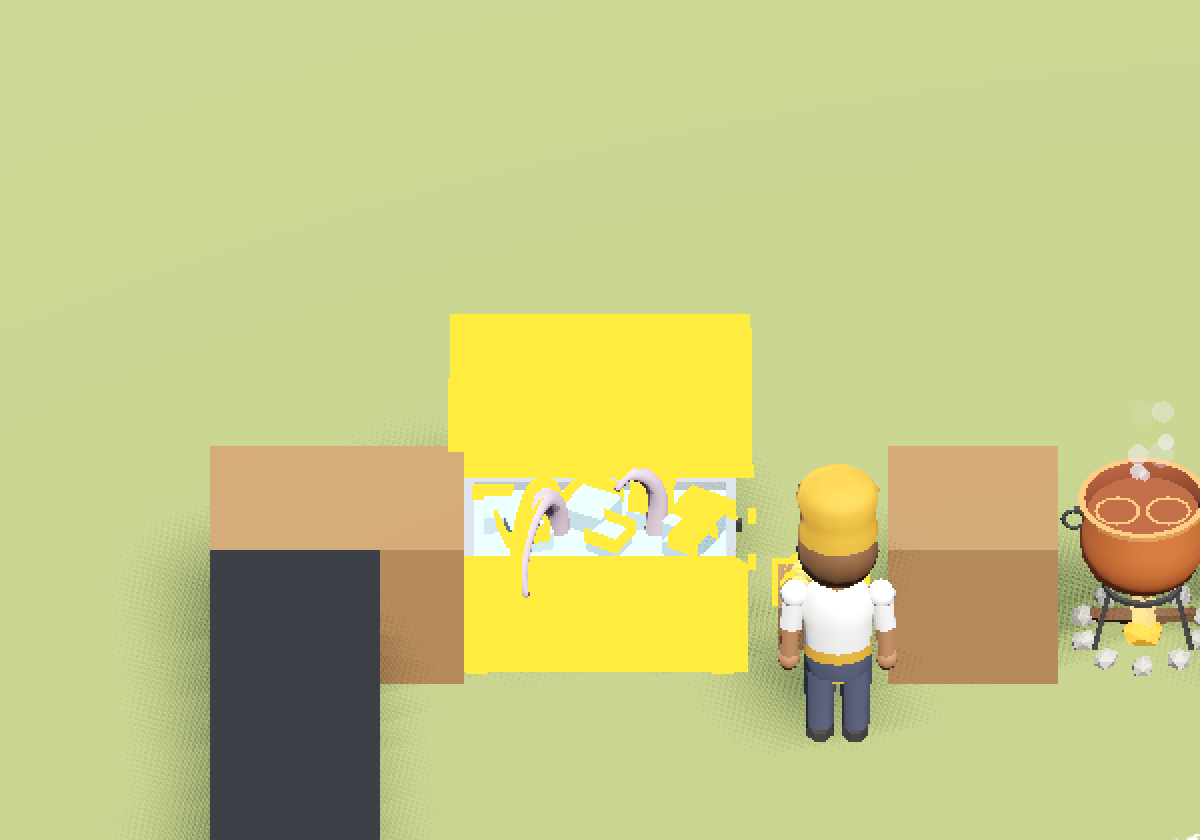
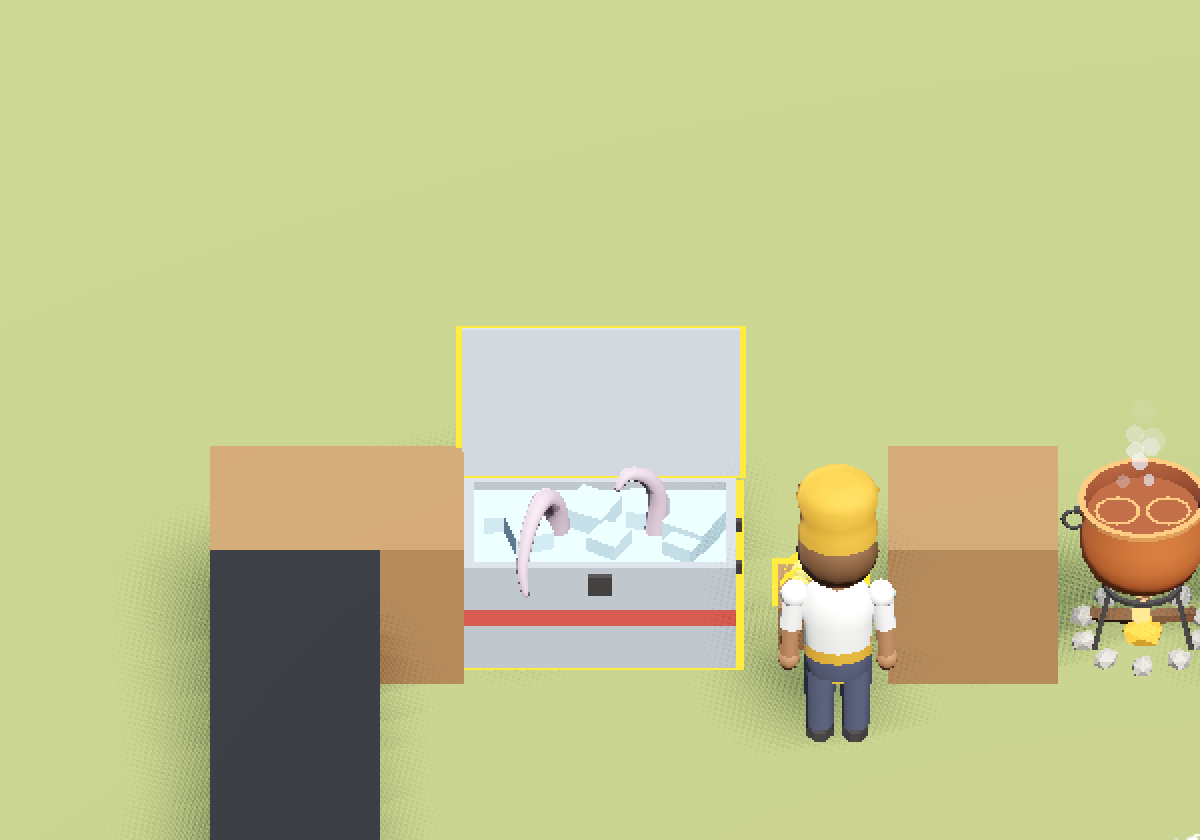
PUL-049: corregir resaltado

Changed region(s): [[0.37, 0.3714, 0.6475, 0.8048], [0.925, 0.4643, 0.9867, 0.5881], [0.9558, 0.7119, 0.9867, 0.7429]]

diff --git a/docs/backlog/PUL-049-asset-nevera.md b/docs/backlog/PUL-049-asset-nevera.md
@@ -48,3 +48,6 @@ Ajuste de la biblia (§4): tapa separada (`Lid`).
 - `octopus_storage.tscn`: solo cambia la instancia de `Model` (fridge.tscn → .glb). Colisión, `%Highlightable`, grupo `interactable` y script intactos: la huella en planta (1,61×0,91) no cambia, así que el acceso desde la planta B (navegación plana) no se ve afectado. La caja sigue siendo más alta (2,33 m) que el modelo; no se ha tocado para no alterar el contrato.
 - Capturas en `docs/evidence/PUL-049/`: `blender_render.png`, `level_camera_plain*.png`, `level_camera_highlight*.png` (con personaje al lado), scripts `build_octopus_storage.py` y `capture_storage.gd`.
 - Licencia (propia): pendiente de registrar por el coordinador en `docs/assets/licenses.md`.
+
+### Corrección del resaltado (ronda del coordinador)
+El inverted hull de `highlight_outline` rellenaba el arcón entero (cuba abierta, tapa fina, hielo). Sin tocar el shader ni `highlightable.gd`: la escena añade `OutlineHull` con dos cajas cerradas escondidas dentro del modelo (cuba y tapa) y `Highlightable.root` apunta a ese nodo, así el contorno sale de volúmenes cerrados. Capturas nuevas en `docs/evidence/PUL-049/level_camera_{plain,highlight}*.png`.
